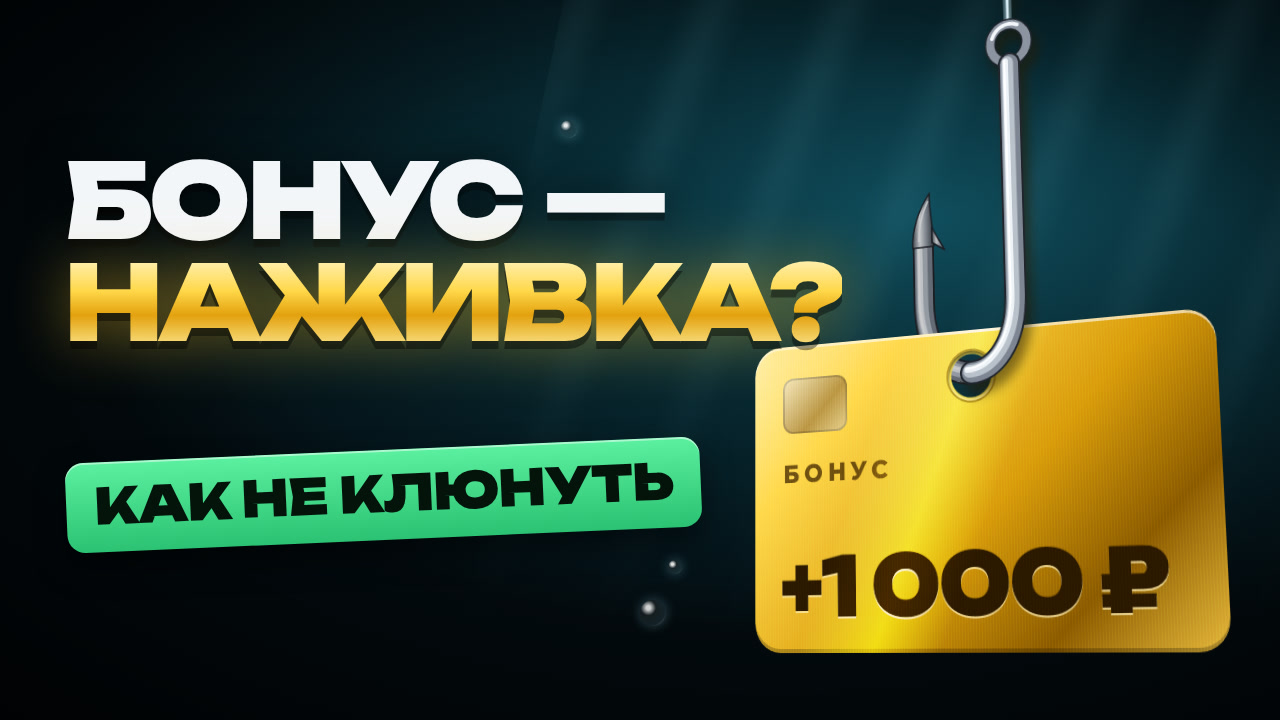
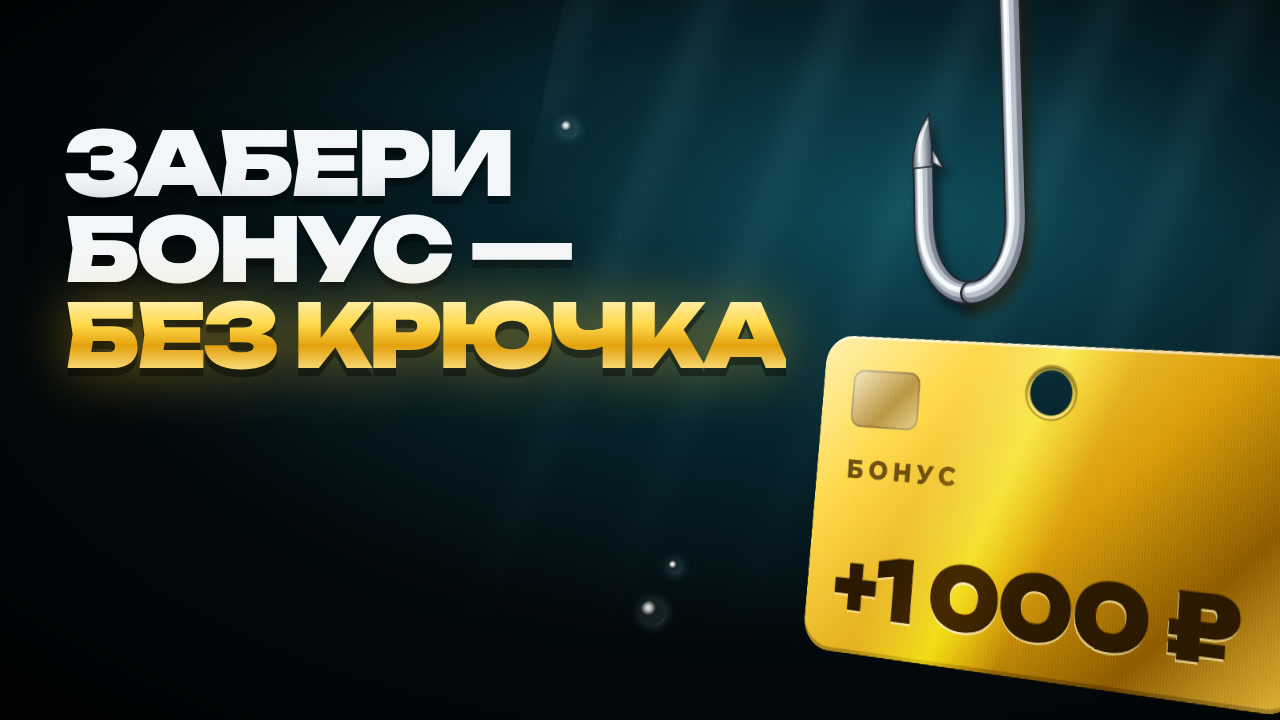
Превью №2: «Забери бонус — без крючка» вместо «наживки» — не спорит с оффером канала
Claude-Session: https://claude.ai/code/session_01RfCfKDkbyGyDNmw4SWPkFj

diff --git a/youtube/02-bank-earns/thumb/thumb11.html b/youtube/02-bank-earns/thumb/thumb11.html
@@ -76,7 +76,16 @@
 <script>
   const v = new URLSearchParams(location.search).get("v") || "a";
   document.body.classList.add(v === "c" ? "studio" : "water");
-  if (v !== "a") document.getElementById("plate").style.display = "none";
+  if (v !== "a" && v !== "e") document.getElementById("plate").style.display = "none";
+  // d — «забери бонус без крючка»: карта уже снята с крючка (пустое отверстие), крючок пустой
+  if (v === "d") { document.getElementById("plate").style.display = "none";
+    document.querySelector(".t").innerHTML = '<div class="w">Забери</div><div class="w">бонус —</div><div class="gold">без крючка</div>';
+    Object.assign(document.querySelector(".t").style, { top: "120px", fontSize: "88px" });
+    document.querySelector(".card").style.transform = "translate(70px, 100px) rotate(6deg)"; document.querySelector(".cw").style.top = "250px";
+    document.querySelector("svg.hk.back").style.zIndex = 2; document.querySelector("svg.hk.back").style.filter = "drop-shadow(6px 10px 6px rgba(0,0,0,.5))"; }
+  // e — «наживка? забери её»: крючок с картой как в a, зритель — тот, кто забирает
+  if (v === "e") { document.getElementById("plate").textContent = "и не попадись";
+    document.querySelector(".t").innerHTML = '<div class="gold">Наживка?</div><div class="w">Забери её</div>'; }
   if (v === "b" || v === "c") { const t = document.querySelector(".t"); t.style.top = "150px"; t.style.fontSize = "104px"; }
 </script>
 </body>

diff --git a/.claude/skills/youtube-longform/SKILL.md b/.claude/skills/youtube-longform/SKILL.md
@@ -65,7 +65,7 @@ Never spend hours of render before gates 3–4.
    **Thumbnail rules from the owner (08.10):** it must hook — a metaphor or curiosity gap (mousetrap, bait on a hook,
    «48 % → 0 %»), not a plain statement of fact; give 6+ variants. **No system emoji** («дешёвые смайлики» look cheap and
    spoil the thumbnail). Any icon or object must be premium 3D: lit, with metal or glass materials, highlights and a real
-   shadow. **Reference the owner approved («это то, что я искал, такие превью мне нравятся»):** `youtube/02-bank-earns/thumb/thumb11.html` (v=a) — a metaphor object (a gold bank card hanging on a 3D steel fishing hook threaded through a real hole), 2-line question headline «БОНУС — / НАЖИВКА?» (white plus gold gradient), one green benefit plate («как не клюнуть»), a deep underwater background with light rays, bubbles and grain. New thumbnails: this level of finish — a metaphor, a 3D object with materials, ≤ 6 words.
+   shadow. **Reference the owner approved («это то, что я искал, такие превью мне нравятся»):** `youtube/02-bank-earns/thumb/thumb11.html` (v=a) — a metaphor object (a gold bank card hanging on a 3D steel fishing hook threaded through a real hole), 2-line question headline «БОНУС — / НАЖИВКА?» (white plus gold gradient), one green benefit plate («как не клюнуть»), a deep underwater background with light rays, bubbles and grain. New thumbnails: this level of finish — a metaphor, a 3D object with materials, ≤ 6 words. **The message must not contradict the channel** (the owner, 08.10): the channel earns on referral bonuses, so a thumbnail never says «don't take bonuses» or «don't take the bait». The viewer is the smart one who takes the bonus and dodges the bank's hook. Final for video #2: v=d «Забери бонус — без крючка» (the card is already off the hook).
 3. Voice: he records the script in one file (retakes are fine — they are cut automatically) and sends it.
    **Claude starts the build immediately** — don't wait for the night routine.
 

diff --git a/youtube/02-bank-earns/publish.md b/youtube/02-bank-earns/publish.md
@@ -4,7 +4,7 @@
 Запасные: «Банк зарабатывает на тебе 5 способами. Разворачиваю каждый в свою пользу» ·
 «Банки заработают 4 трлн в 2026. Вот как забрать свою часть»
 
-**Превью:** `thumbnail.jpg` = `thumb/thumb11_a.png` («Бонус — наживка?», объёмный крючок и золотая карта; выбор владельца — v11, 08.10). Варианты b/c (без плашки, вода / тёплый свет) — для «Теста и сравнения».
+**Превью:** `thumbnail.jpg` = `thumb/thumb11_d.png` «Забери бонус — без крючка» (карта снята с крючка). «Бонус — наживка? Как не клюнуть» (v=a) отклонено: противоречит офферу канала (бонусы по реферальным ссылкам). Запасное для «Теста и сравнения» — v=e «Наживка? Забери её».
 
 ## Описание (вставить целиком; таймкоды — после финальной сборки)
 
